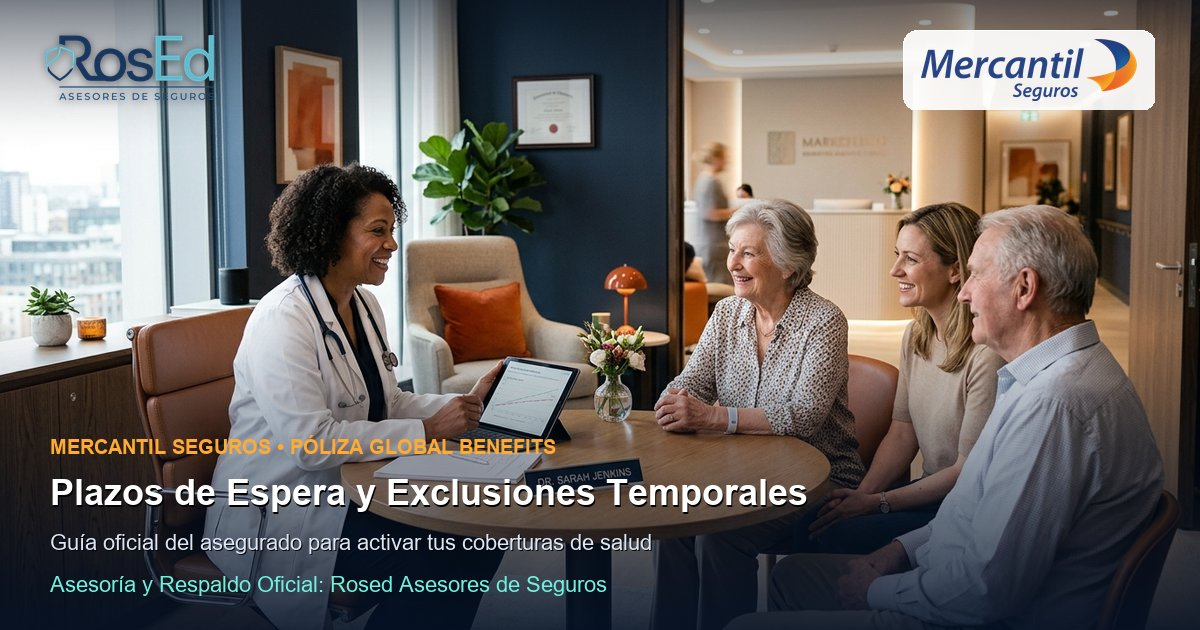
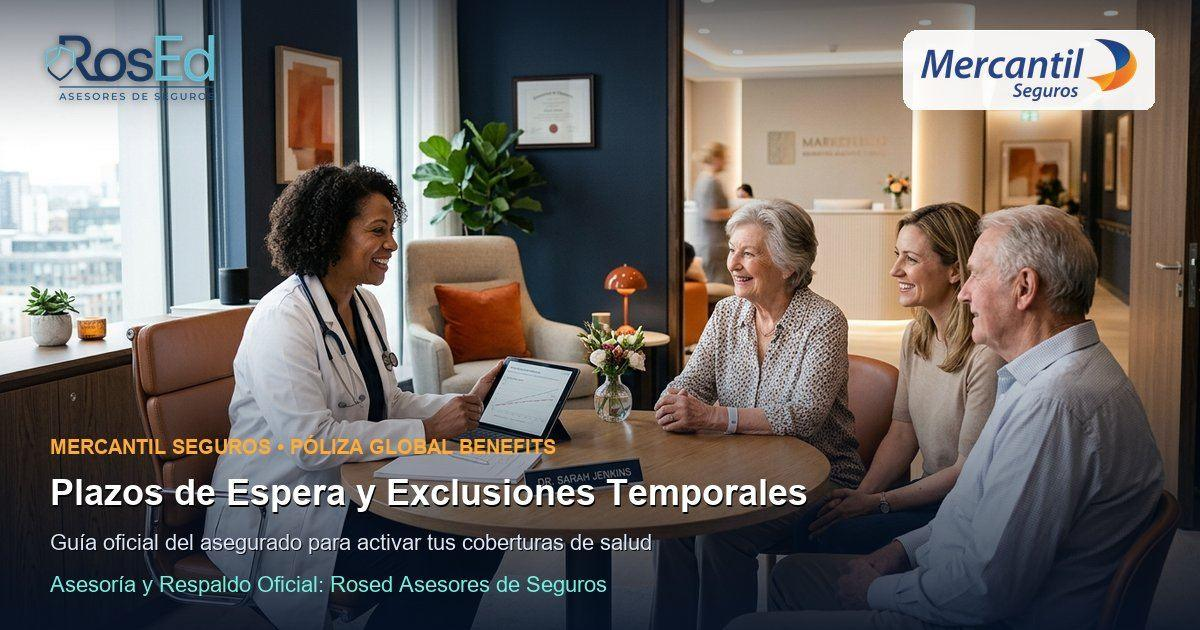
fix: optimizar imagen og y caracteres de og:title para WhatsApp preview

diff --git a/public/Mercantil-Plazos-de-Espera/index.html b/public/Mercantil-Plazos-de-Espera/index.html
@@ -7,7 +7,7 @@
   
   <!-- Open Graph para vista previa enriquecida en WhatsApp -->
   <meta property="og:site_name" content="Rosed Asesores de Seguros">
-  <meta property="og:title" content="Mercantil Seguros • Global Benefits: Plazos de Espera">
+  <meta property="og:title" content="Mercantil Seguros - Global Benefits: Plazos de Espera">
   <meta property="og:description" content="Cuadro resumen oficial: Conoce los plazos de espera y tiempos de cobertura de tu póliza de salud Global Benefits.">
   <meta property="og:image" content="https://www.rosedasesores.com/Mercantil-Plazos-de-Espera/og-mercantil-plazos.jpg">
   <meta property="og:image:secure_url" content="https://www.rosedasesores.com/Mercantil-Plazos-de-Espera/og-mercantil-plazos.jpg">
@@ -18,7 +18,7 @@
   <meta property="og:type" content="website">
   <link rel="image_src" href="https://www.rosedasesores.com/Mercantil-Plazos-de-Espera/og-mercantil-plazos.jpg">
   <meta name="twitter:card" content="summary_large_image">
-  <meta name="twitter:title" content="Mercantil Seguros • Global Benefits: Plazos de Espera">
+  <meta name="twitter:title" content="Mercantil Seguros - Global Benefits: Plazos de Espera">
   <meta name="twitter:description" content="Cuadro resumen oficial: Conoce los plazos de espera y tiempos de cobertura de tu póliza de salud Global Benefits.">
   <meta name="twitter:image" content="https://www.rosedasesores.com/Mercantil-Plazos-de-Espera/og-mercantil-plazos.jpg">
   <meta name="theme-color" content="#002855">
